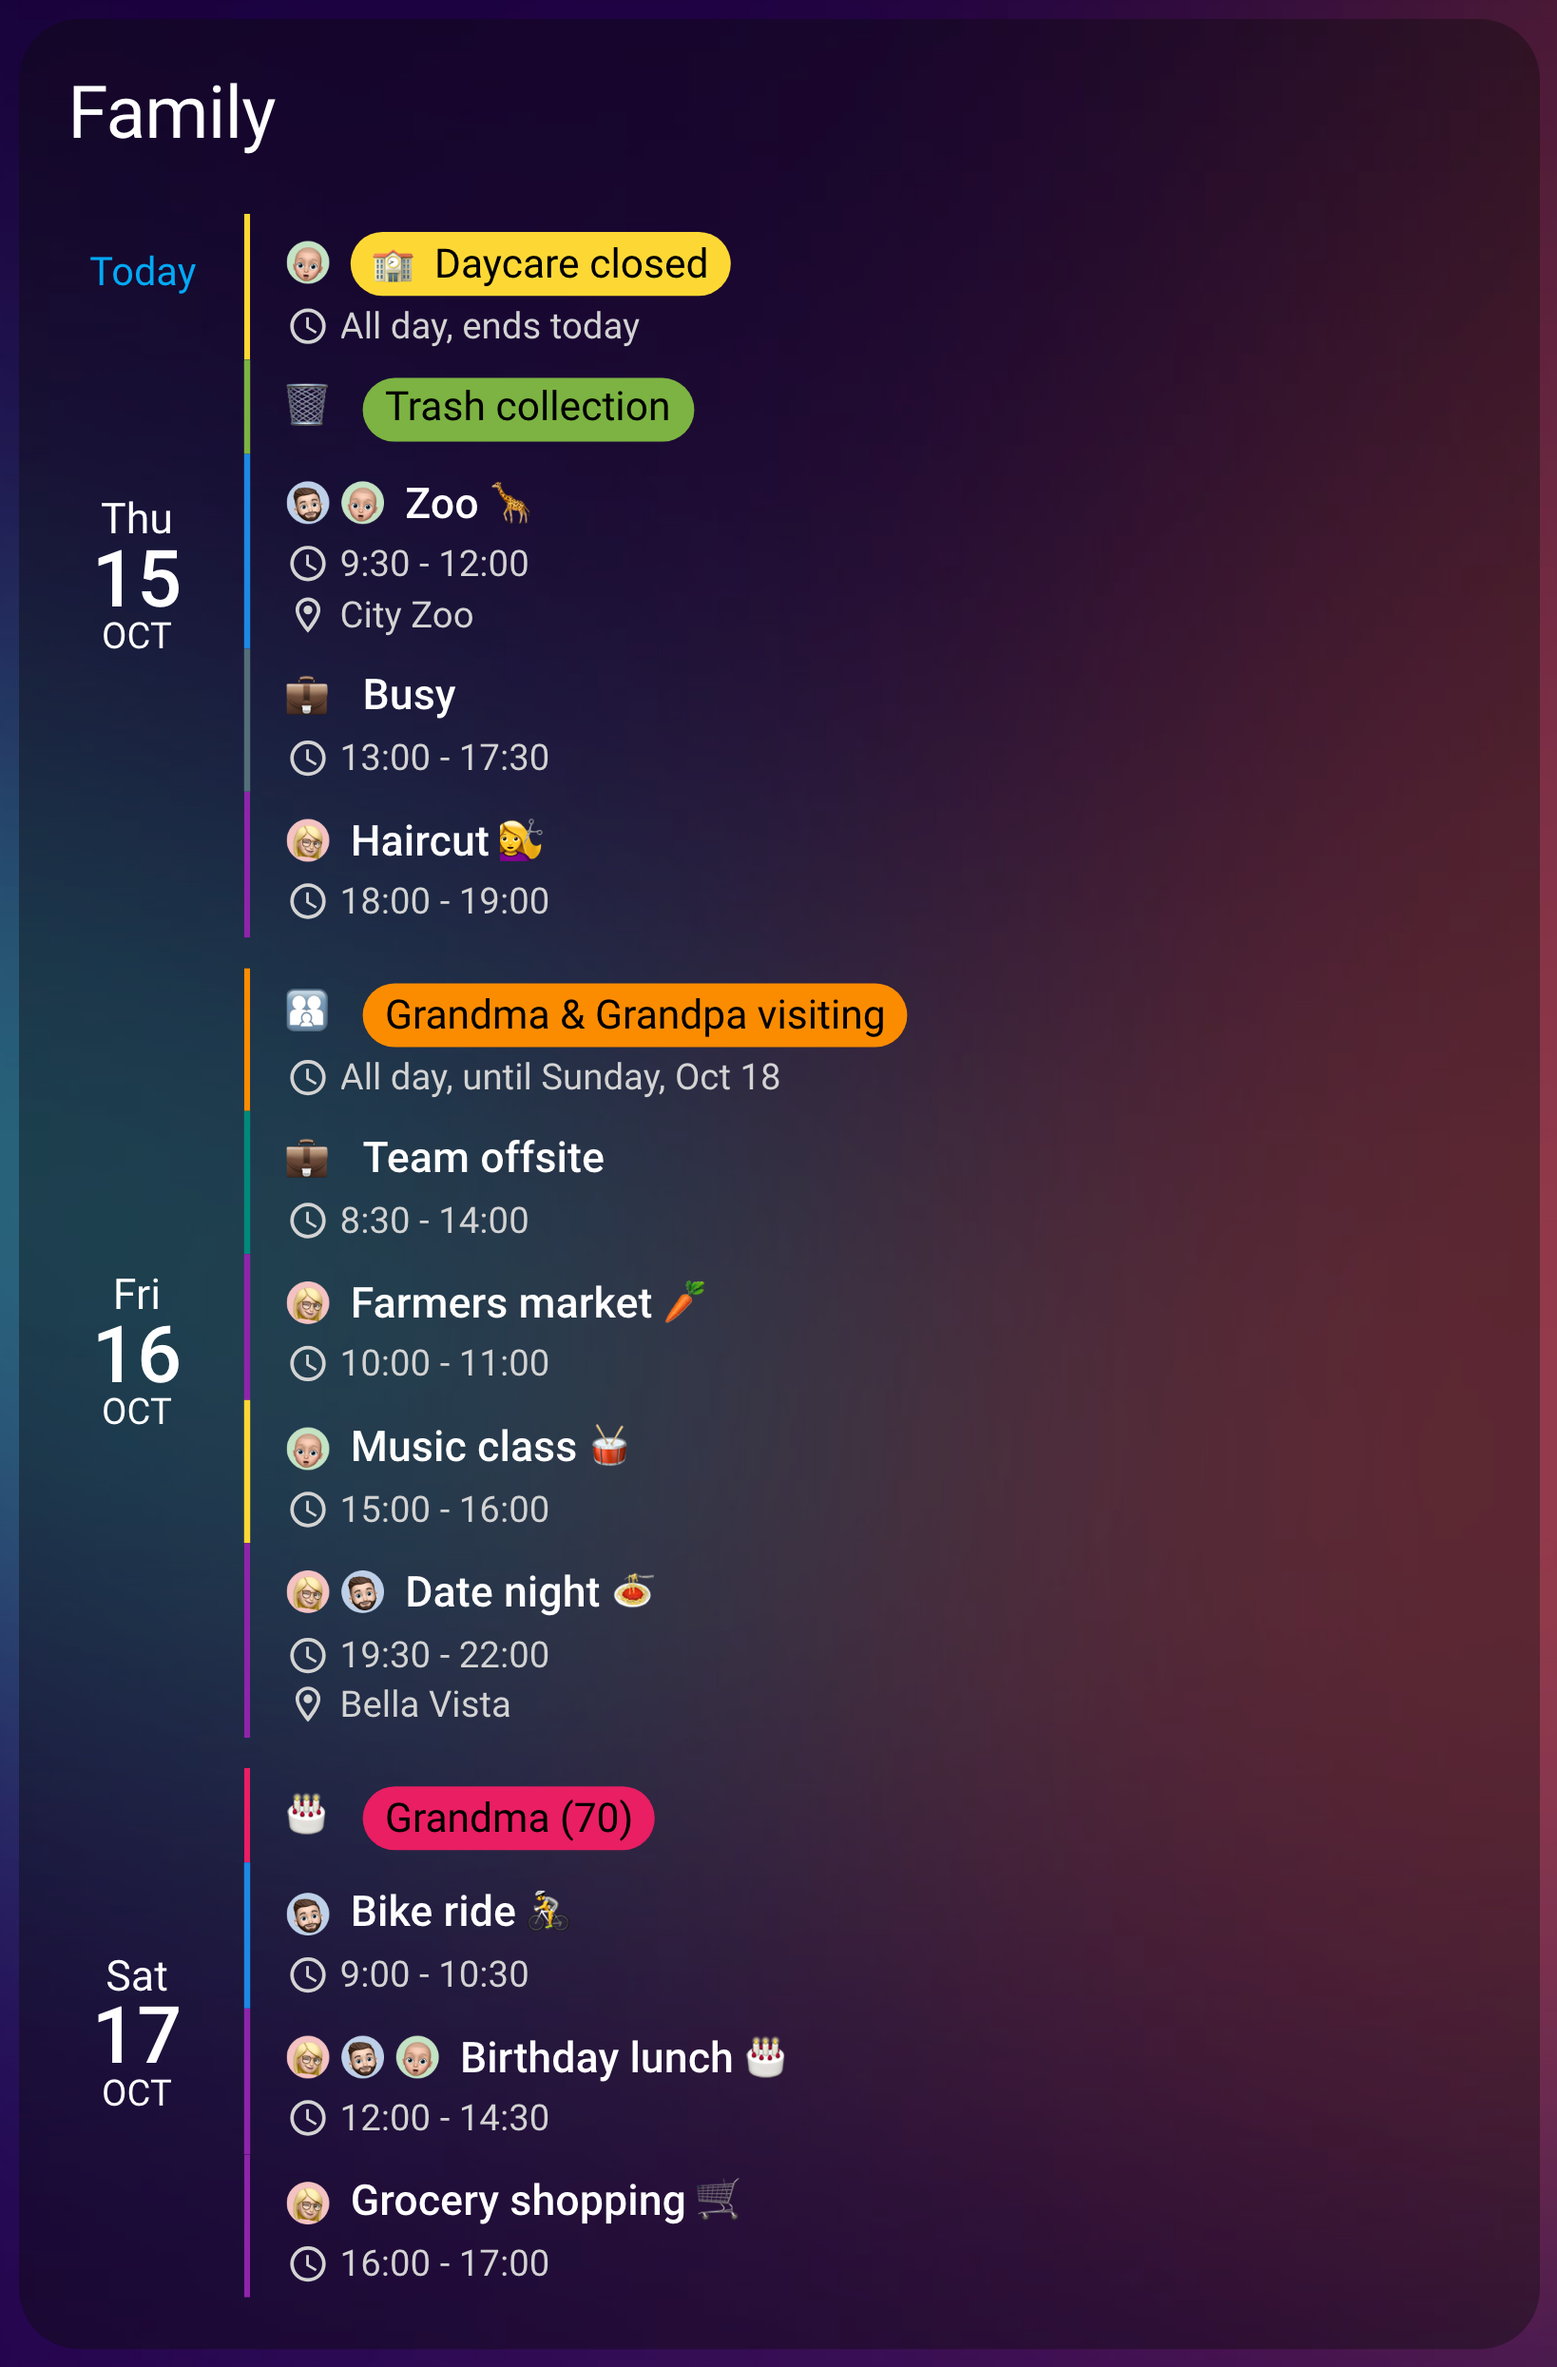
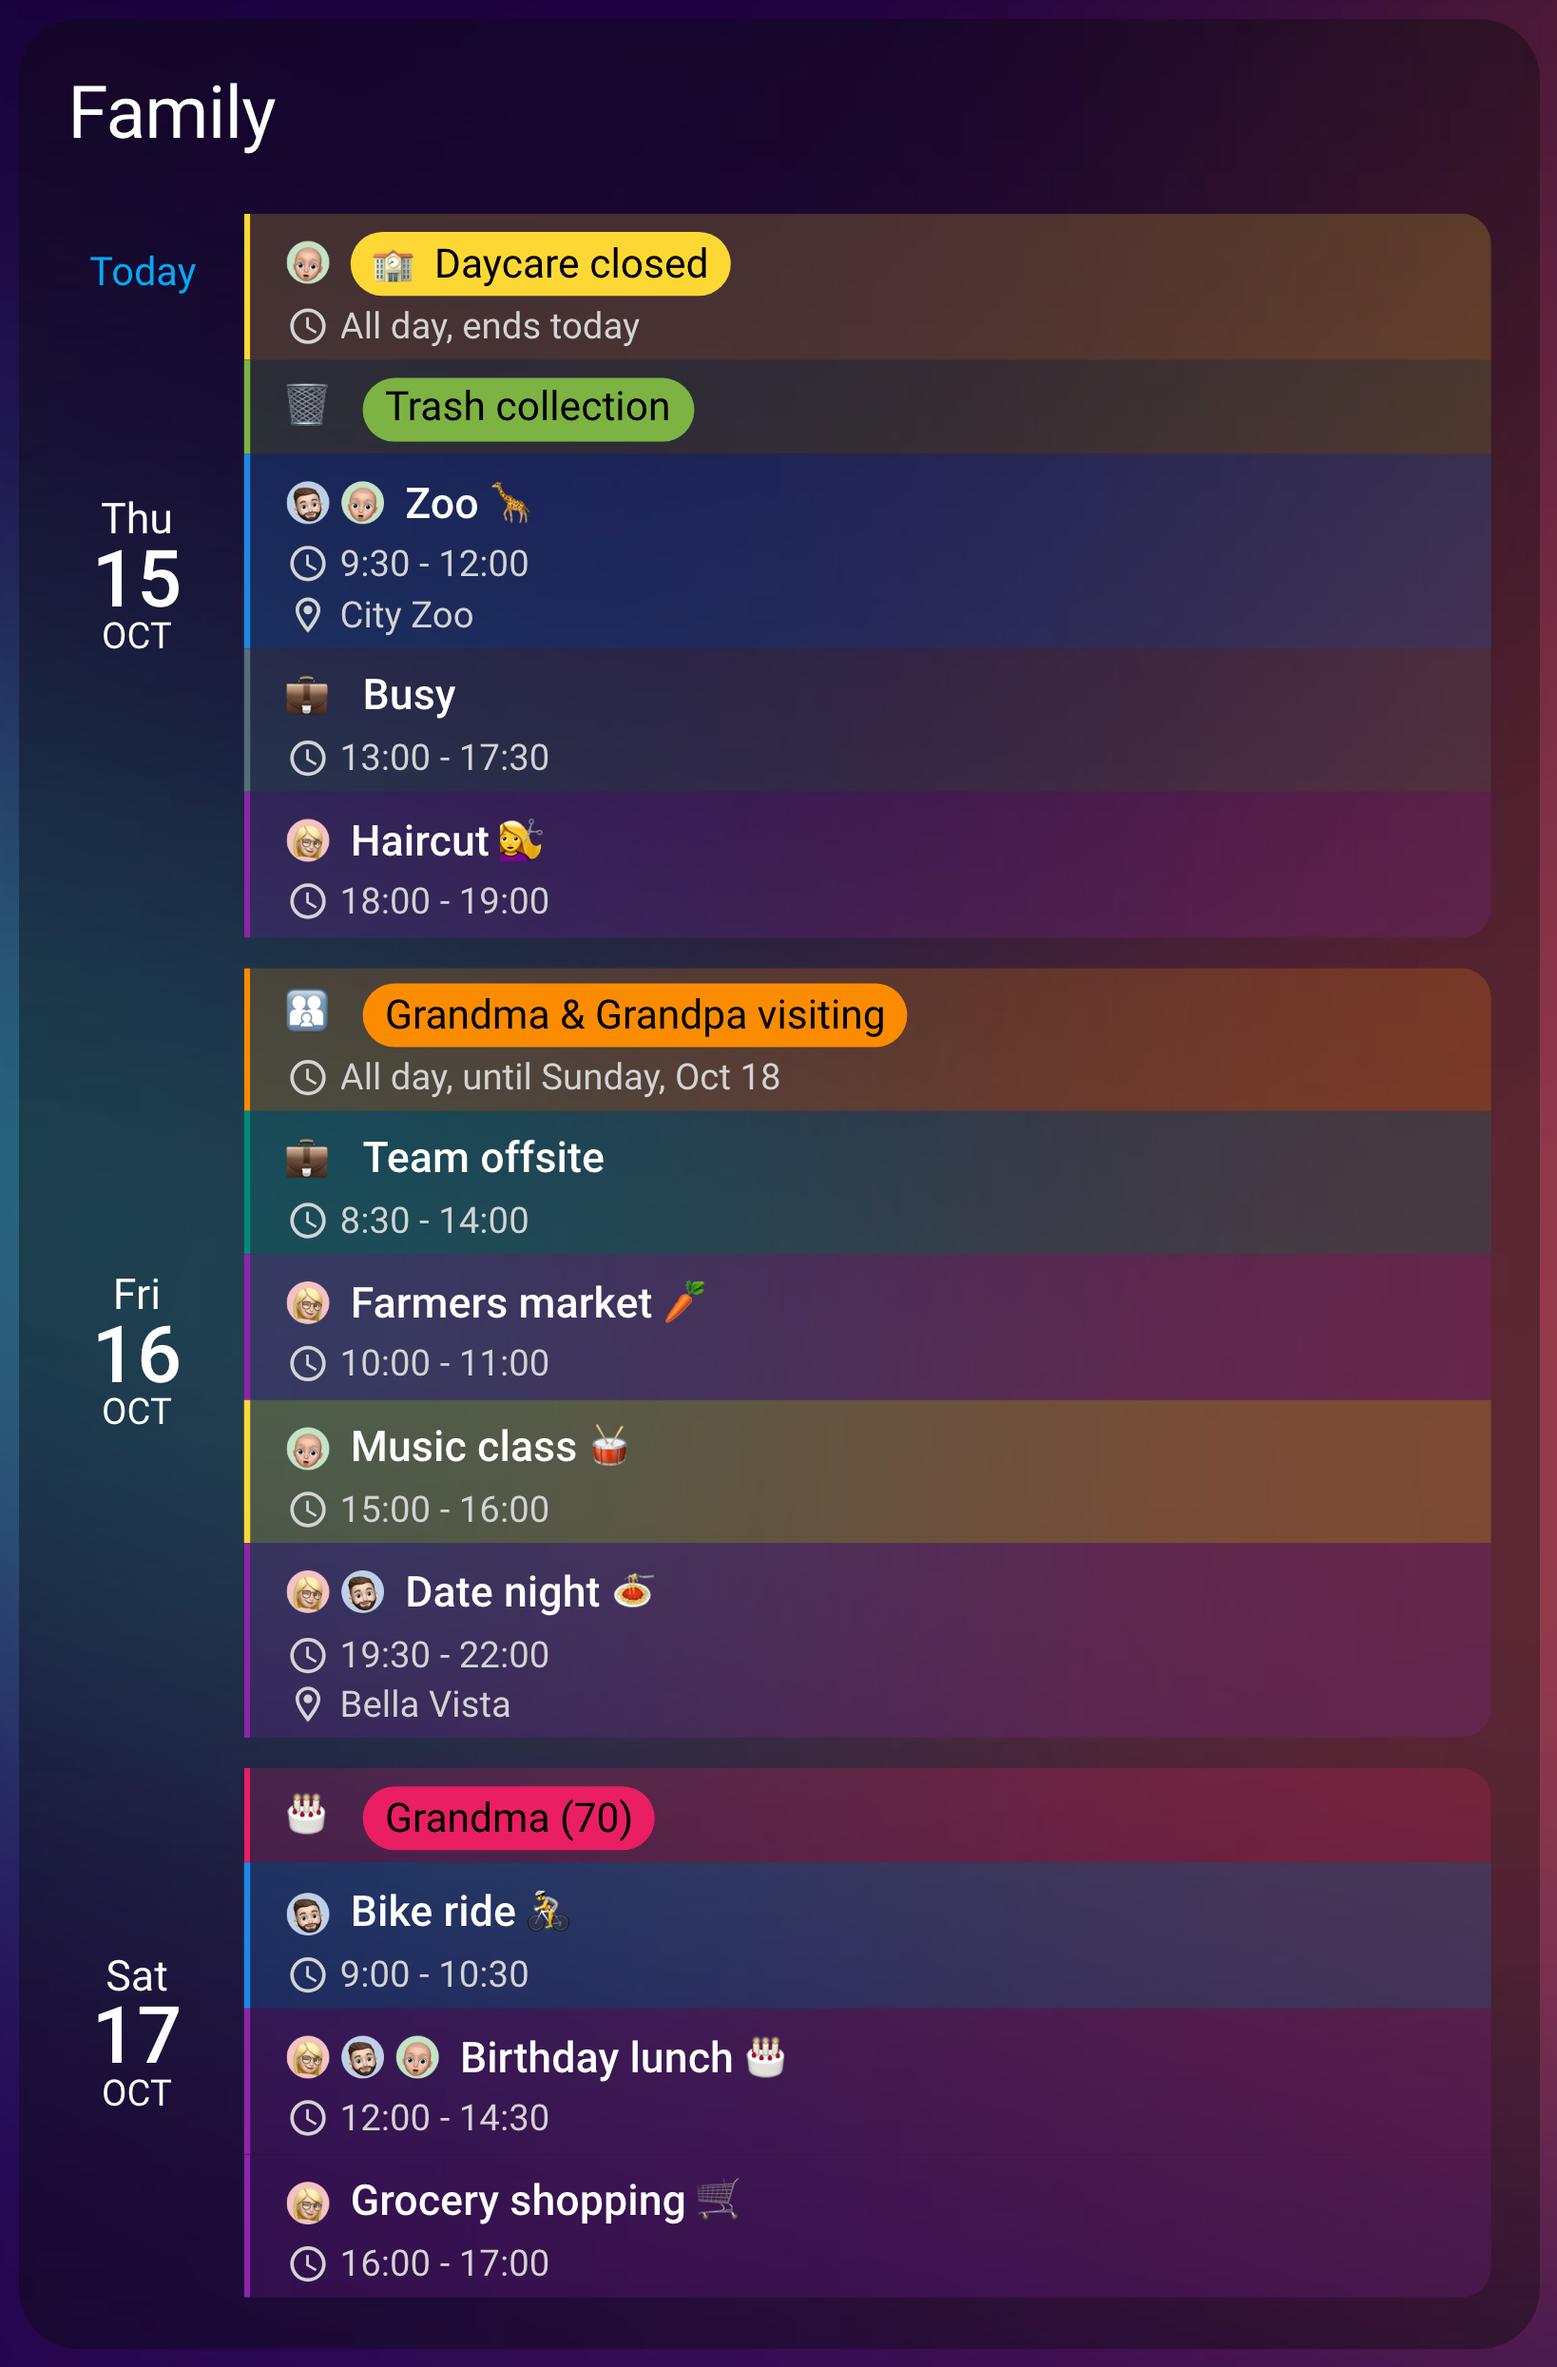
docs: tint the agenda's rows, and retake the shared-events image
The filtered agenda now sets event_background_opacity: 20, chosen from a
side-by-side of 0, 10 and 20: each row becomes a band in its calendar's
color, so the kinds of event stay apart at a glance. The image, the
page's YAML and a sentence under One Voice for the Whole Card follow,
and the test that reads the page pins the value.

example_shared_event_color.png is retaken with the same face pictures
as the two walkthroughs, from the same events as before. Its YAML in
Core Settings still teaches person.* labels.

start-date-offset.md said start_of_week always needs
show_past_events: true and that all-day events are always shown.
Neither holds in grid view, which shows past events by default, and a
past all-day event is hidden from midnight after its last day. The
warning now says which views it applies to.

Copilot-Session: 3bf4429d-a0aa-44a5-8aaf-d9fd9cd531cc

diff --git a/tests/one-calendar-many-purposes.test.ts b/tests/one-calendar-many-purposes.test.ts
@@ -286,6 +286,7 @@ describe('the Filtered Agenda example behaves as the page describes', () => {
     expect(GUIDE_CONFIG).toMatchObject({
       view: 'list',
       filter_duplicates: true,
+      event_background_opacity: 20,
       list: { today_indicator_position: '50% 8%' },
       allday_badge: 'title',
       allday_badge_style: 'filled',

diff --git a/docs/guide/one-calendar-many-purposes.md b/docs/guide/one-calendar-many-purposes.md
@@ -6,7 +6,7 @@ This walkthrough builds that filtered agenda. The same blocks work in the weekly
 
 <img src="https://raw.githubusercontent.com/alexpfau/calendar-card-pro/main/.github/img/example_family_agenda.png" alt="A three-day list agenda for one family, Thursday to Saturday: all-day events as filled pills in their own colors, each person's events with their face in front of the title, plans shared by several people drawn once with every face, and work hours that say Busy" width="600"><br>
 
-Thursday morning in the same week as [The Weekly Grid](/guide/family-calendar). Each kind of all-day event is a pill in its own color: Leo's daycare closure, the trash collection that retires at 11:00, the grandparents' visit, and Grandma's birthday with her age. Ben's working hours say _Busy_, except the offsite he marked for the family. A plan on several calendars is drawn once, with every face in front of it. The screenshot uses the **[iOS Theme](https://github.com/basnijholt/lovelace-ios-themes)** (ios-dark-mode-blue-red-alternative).
+Thursday morning in the same week as [The Weekly Grid](/guide/family-calendar). Every row is tinted in its calendar's color, and each kind of all-day event is a pill in that color: Leo's daycare closure, the trash collection that retires at 11:00, the grandparents' visit, and Grandma's birthday with her age. Ben's working hours say _Busy_, except the offsite he marked for the family. A plan on several calendars is drawn once, with every face in front of it. The screenshot uses the **[iOS Theme](https://github.com/basnijholt/lovelace-ios-themes)** (ios-dark-mode-blue-red-alternative).
 
 ::: tip Choose Your Walkthrough
 
@@ -49,6 +49,7 @@ title: Family
 view: list
 days_to_show: 3
 filter_duplicates: true # a plan on several calendars is drawn once, with every face
+event_background_opacity: 20
 allday_badge: title
 allday_badge_style: filled
 show_single_allday_time: false
@@ -201,6 +202,8 @@ The badge and all-day lines at the top of [the card](#the-whole-card) are the op
 [`allday_badge: title`](/features/event-content#the-all-day-badge) wraps the title of every all-day event in a rounded pill, and `allday_badge_style: filled` makes that pill a solid capsule rather than an outline or a wash. The color it is filled with comes from [`allday_badge_color`](/features/event-content#which-color-it-is-drawn-in), which defaults to `accent` — so each pill takes its own calendar's `accent_color`. Nothing in the blocks changes. The colors were already there.
 
 That is the combination worth understanding, because neither half is much on its own. The per-calendar layer gave eight blocks their own colors, which on a dashboard you sit in front of is a pleasant detail. The card-level layer turns those colors into a **shape** you can read from the far end of the hall: a pink capsule is a birthday, a green one is bin day, an orange one is something the family is doing all day, and a purple, blue or yellow one is Anna's, Ben's or Leo's own day. Timed events stay as plain text. The screen answers _is today a whole-day thing, and whose_ before anyone is close enough to read a word of it.
+
+[`event_background_opacity: 20`](/features/layout-appearance#visual-styling-colors) carries the same colors into the timed rows, tinting each one with its calendar's `accent_color` at 20% opacity. The pill marks a whole-day event; the tint makes every row a band of its own color, so Anna's haircut, Leo's music class and the _Busy_ afternoon stay apart even at a glance down the hall.
 
 The two `show_*` options then remove what the pill has made redundant:
 

diff --git a/docs/features/start-date-offset.md b/docs/features/start-date-offset.md
@@ -71,10 +71,11 @@ following Monday. A bare weekday is shorthand for `today+<weekday>`.
 | Two weeks from next Tuesday                           | `tuesday+2w`        |
 
 ::: warning Pair This With show_past_events
-`start_of_week` resolves to a past date for most of the week. Because `show_past_events`
-defaults to `false`, already-finished timed events on the earlier days are hidden, which can
-make the start of the week look empty. Pair `start_of_week` with `show_past_events: true` to
-see the full week. (All-day events are always shown.)
+`start_of_week` resolves to a past date for most of the week. In the list and column views
+`show_past_events` defaults to `false`, so what has already finished on the earlier days is
+hidden: a timed event once it ends, and an all-day event from midnight after its last day. That
+can make the start of the week look empty, so pair `start_of_week` with `show_past_events: true`
+there to see the full week. Grid view shows past events by default and needs nothing.
 :::
 
 When using `start_date` with `days_to_show`, the calendar will display exactly that number of days starting from the specified date:
